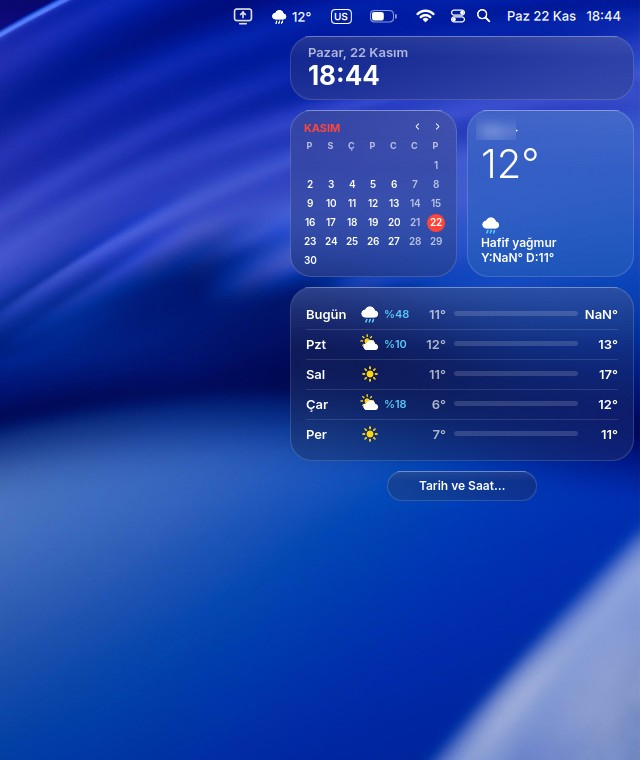
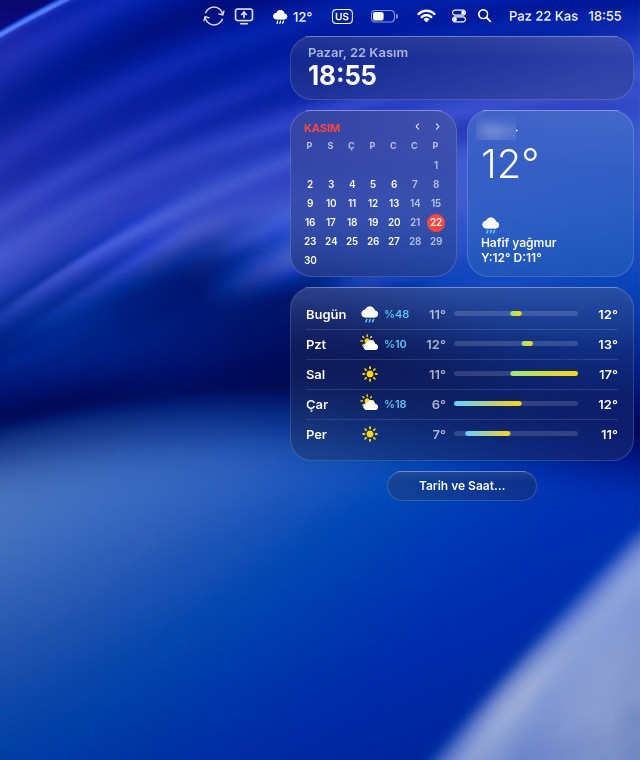
Fix installer on fresh systems, weather NaN; refresh clock screenshot
- read Plasma version via rpm (plasmashell --version aborts without a display)
- placeholder substitution no longer aborts when a folder has none (pipefail)
- icon overlay writes through upstream's symlinked size folders
- --no-session option for container/CI tests
- weather: fall back to current temperature when the provider drops today's high/low

Tested in a clean fedora:45 container: install.sh --no-session passes all 23 checks
(WaveTask builds and its QML plugin loads), uninstall.sh removes everything.

diff --git a/components/apps/tahoe-menus/main.qml b/components/apps/tahoe-menus/main.qml
@@ -169,7 +169,12 @@ Item {
         const s = wd["Short Forecast Day " + i]
         if (!s) return null
         const p = String(s).split("|")
-        return { day: p[0], icon: p[1], text: p[2], hi: parseFloat(p[3]), lo: parseFloat(p[4]), rain: p[5] }
+        let hi = parseFloat(p[3]), lo = parseFloat(p[4])
+        // providers drop today's high in the evening (and sometimes a low): fall back like Apple Weather
+        const cur = parseFloat(wd["Temperature"])
+        if (isNaN(hi)) hi = i === 0 && !isNaN(cur) ? Math.max(cur, isNaN(lo) ? cur : lo) : lo
+        if (isNaN(lo)) lo = i === 0 && !isNaN(cur) ? Math.min(cur, isNaN(hi) ? cur : hi) : hi
+        return { day: p[0], icon: p[1], text: p[2], hi: hi, lo: lo, rain: p[5] }
     }
     readonly property var today: forecast(0)
     readonly property string wxIcon: (wd["Condition Icon"] && wd["Condition Icon"] !== "weather-none-available") ? wd["Condition Icon"] : (today ? today.icon : "")
